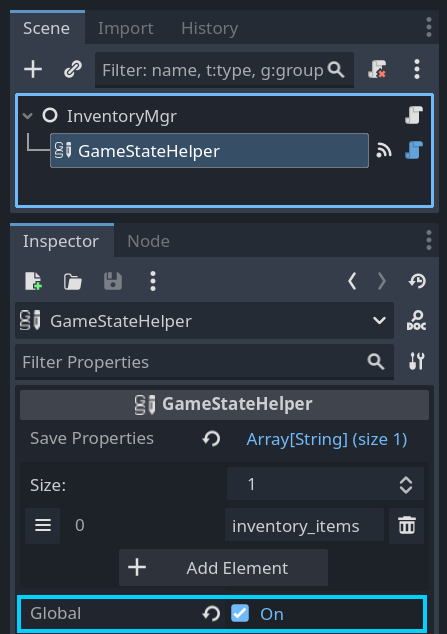
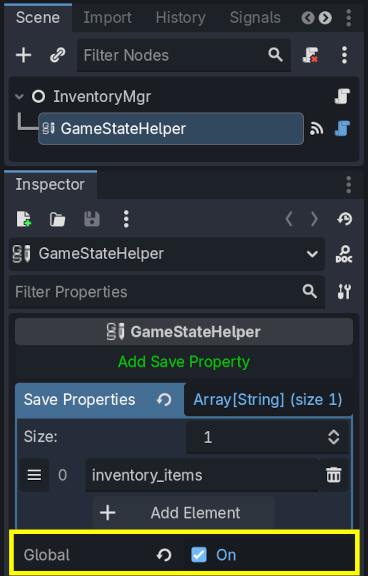
update readme's, update plugin version to 4.7

diff --git a/README.md b/README.md
@@ -10,7 +10,7 @@ This plugin maintains game object state (property values) between scene changes 
 The plugin takes care of all of the above, but if you have special state logic you need to add for a game object, you can hook into the state system by connecting to certain signals (described below).
 
 ## Installation
-This plugin can be installed via the Godot asset library or you can clone or download the repository and copy the addon folder into your game.
+This plugin can be installed via the Godot asset store or you can clone or download the repository and copy the addon folder into your game.
 
 ## Demos
 There are two demos available for the plugin.  A very simple demo is in the addons folder (res://addons/game_state_saver/demo/demo_title.tscn) so that is is included when installing from the asset library.  A more complete demo is available in the plugin's GitHub repository.  To get this demo please clone (do not download!) the entire GitHub repository and open its project.
@@ -23,6 +23,12 @@ In the following example, the Player object's global_position and a custom prope
 
 <p align="center">
 <img src="./readme_images/game_state_helper_setup_example.png" />
+</p>
+
+You can also click the Add Save Property button and select properties from the popup list.
+
+<p align="center">
+<img src="./readme_images/game_state_helper_property_list_popup.png" />
 </p>
 
 If a game object is a dynamically instanced child scene (like a spawened enemy), the GameStateHelper node will detect this and ensure that it is re-instanced and added back into the scene tree the next time the scene is loaded.